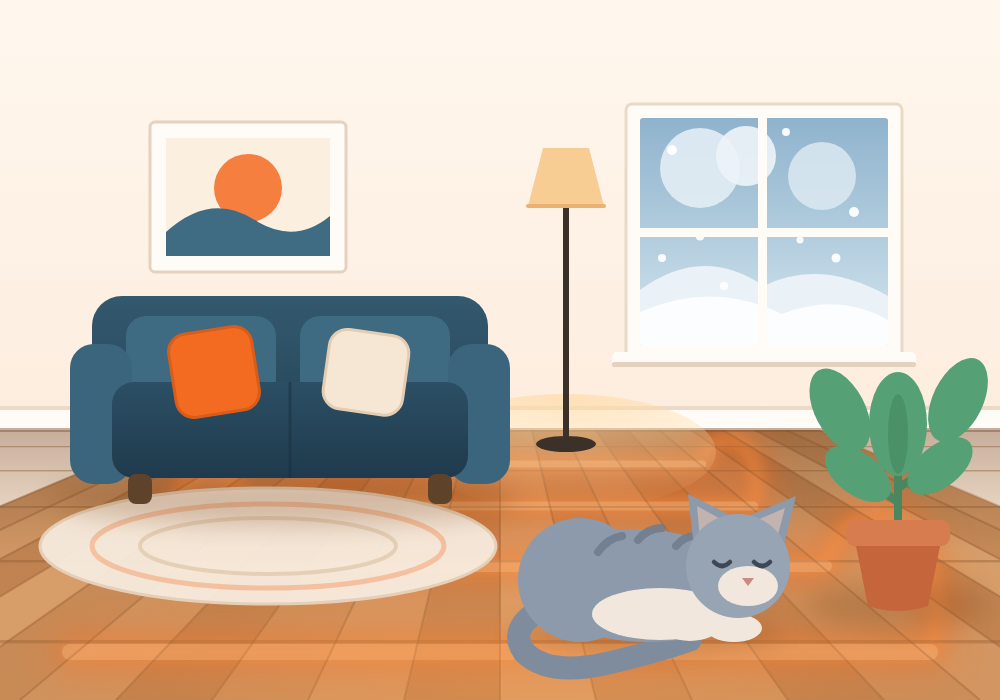
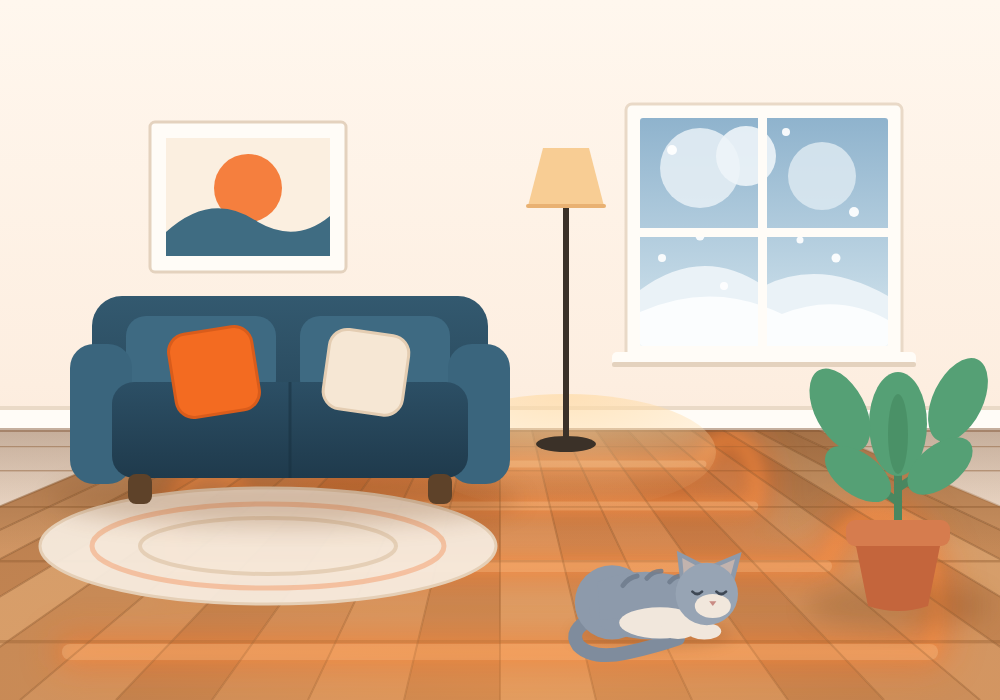
Redraw the controller plain, and size the cat to the room
The controller is now an unbranded white enclosure with a code on the lid
and nothing else - no logo, no actuator. Its four cable entries are drawn on
the front wall's own plane, so they lie along the wall instead of sitting
square against a slanted face, and the view is steeper so more of the lid
shows and less of the wall.

The cat was drawn to a size that would have made it the largest animal in
the room; it is now scaled to the furniture around it.

Claude-Session: https://claude.ai/code/session_016iqpeTW8PoqLBoyWR8PW5p

Changed region(s): [[0.496, 0.69, 0.806, 0.99]]

diff --git a/art/driver_images.py b/art/driver_images.py
@@ -154,16 +154,25 @@ ROOM = f'''<svg xmlns="http://www.w3.org/2000/svg" viewBox="0 0 1000 1000" width
 
 # -- controller unit -----------------------------------------------------------
 
-# A light axonometric: `U` runs along the width of the box, `V` into the depth.
-AX, AY = 140.0, 476.0          # front-left corner of the lid
-UX, UY = 430.0, 48.0
-VX, VY = 152.0, -136.0
-BOX_H = 124.0
+# A light axonometric seen from fairly high up: `U` runs along the width of the
+# box, `V` into its depth. The steep V and the shallow wall height are what put
+# the viewer above the box rather than level with it.
+AX, AY = 168.0, 560.0          # front-left corner of the lid
+UX, UY = 562.0, 45.0
+VX, VY = 125.0, -266.0
+BOX_H = 94.0
+
+FRONT_W, FRONT_H = 1000.0, 300.0   # local drawing space for the front wall
 
 
 def lid(s, t):
     """A point on the lid, in fractions of its width and depth."""
     return AX + s * UX + t * VX, AY + s * UY + t * VY
+
+
+def front(s, y):
+    """A point on the front wall: `s` across its width, `y` down its height."""
+    return AX + s * UX, AY + s * UY + y * BOX_H
 
 
 def quad(pts, fill, stroke=None, sw=3):
@@ -178,116 +187,90 @@ def plane(o, u, v, w, h):
             f'{o[0]:.2f},{o[1]:.2f})')
 
 
-def qr(x, y, size, modules=21):
+def qr(x, y, size, modules=25):
     """A stand-in QR block - finder squares and a stable scatter of modules."""
     import random
-    rnd = random.Random(7)
+    rnd = random.Random(11)
     m = size / modules
-    cells = []
+    cells = [f'<rect x="{x - m * 2:.1f}" y="{y - m * 2:.1f}" width="{size + m * 4:.1f}" '
+             f'height="{size + m * 4:.1f}" fill="#FFFFFF"/>']
+
     def finder(cx, cy):
-        cells.append(f'<rect x="{x + cx * m:.1f}" y="{y + cy * m:.1f}" width="{7 * m:.1f}" height="{7 * m:.1f}" fill="{NAVY}"/>')
+        cells.append(f'<rect x="{x + cx * m:.1f}" y="{y + cy * m:.1f}" width="{7 * m:.1f}" height="{7 * m:.1f}" fill="#2B3138"/>')
         cells.append(f'<rect x="{x + (cx + 1) * m:.1f}" y="{y + (cy + 1) * m:.1f}" width="{5 * m:.1f}" height="{5 * m:.1f}" fill="#FFFFFF"/>')
-        cells.append(f'<rect x="{x + (cx + 2) * m:.1f}" y="{y + (cy + 2) * m:.1f}" width="{3 * m:.1f}" height="{3 * m:.1f}" fill="{NAVY}"/>')
+        cells.append(f'<rect x="{x + (cx + 2) * m:.1f}" y="{y + (cy + 2) * m:.1f}" width="{3 * m:.1f}" height="{3 * m:.1f}" fill="#2B3138"/>')
+
     def in_finder(r, c):
-        return ((r < 8 and c < 8) or (r < 8 and c >= modules - 8) or (r >= modules - 8 and c < 8))
+        return (r < 8 and c < 8) or (r < 8 and c >= modules - 8) or (r >= modules - 8 and c < 8)
+
     for r in range(modules):
         for c in range(modules):
             if in_finder(r, c) or not rnd.getrandbits(1):
                 continue
-            cells.append(f'<rect x="{x + c * m:.1f}" y="{y + r * m:.1f}" width="{m:.1f}" height="{m:.1f}" fill="{NAVY}"/>')
+            cells.append(f'<rect x="{x + c * m:.1f}" y="{y + r * m:.1f}" width="{m:.1f}" height="{m:.1f}" fill="#2B3138"/>')
     finder(0, 0); finder(modules - 7, 0); finder(0, modules - 7)
     return "".join(cells)
 
 
-LOGO = f'''<g transform="translate(52 228) scale(1.52)">
-    <path d="M100 14 L184 92 L184 184 L16 184 L16 92 Z" fill="{ORANGE}" stroke="{ORANGE}"
-          stroke-width="16" stroke-linejoin="round"/>
-    <path d="M46 108 H124 a15 15 0 0 1 0 30 H64 a15 15 0 0 0 0 30 H150" fill="none"
-          stroke="#FFFFFF" stroke-width="15" stroke-linecap="round"/>
-  </g>
-  <text x="392" y="410" font-family="Liberation Serif, Georgia, serif" font-size="186"
-        font-weight="700" fill="{ORANGE}" letter-spacing="4">SMART</text>
-  <text x="404" y="588" font-family="Liberation Serif, Georgia, serif" font-size="92"
-        font-weight="700" fill="{NAVY}" letter-spacing="2">GULVVARME</text>'''
-
-
-def panel():
-    o = lid(0.07, 0.88)
-    u = (0.86 * UX, 0.86 * UY)
-    v = (-0.76 * VX, -0.76 * VY)
-    return f'''<g transform="{plane(o, u, v, 1400, 800)}">
-    <rect x="0" y="0" width="1400" height="800" fill="#F5F7F8"/>
-    <rect x="26" y="26" width="1348" height="748" fill="none" stroke="#CDD4DB" stroke-width="9"/>
-    {LOGO}
-    {qr(1146, 372, 202)}
-    <text x="1146" y="636" font-family="{FONT}" font-size="36" fill="#7C858F">Scan for Info</text>
+def label():
+    """The recessed plate on the lid, carrying nothing but the code."""
+    o = lid(0.08, 0.87)
+    u = (0.84 * UX, 0.84 * UY)
+    v = (-0.74 * VX, -0.74 * VY)
+    return f'''<g transform="{plane(o, u, v, 1200, 800)}">
+    <rect x="0" y="0" width="1200" height="800" fill="#F7F8F9"/>
+    <rect x="24" y="24" width="1152" height="752" fill="none" stroke="#D2D8DE" stroke-width="8"/>
+    {qr(450, 250, 300)}
   </g>'''
 
 
 def screws():
     out = []
-    for s_, t_ in ((0.045, 0.085), (0.955, 0.085), (0.045, 0.915), (0.955, 0.915), (0.5, 0.085), (0.5, 0.915)):
+    for s_, t_ in ((0.04, 0.075), (0.96, 0.075), (0.04, 0.925), (0.96, 0.925),
+                   (0.5, 0.075), (0.5, 0.925)):
         x, y = lid(s_, t_)
-        out.append(f'<circle cx="{x:.1f}" cy="{y:.1f}" r="8.5" fill="#DDE2E7" stroke="#B6BEC7" stroke-width="2.5"/>')
+        out.append(f'<circle cx="{x:.1f}" cy="{y:.1f}" r="9" fill="#DDE2E7" stroke="#B6BEC7" stroke-width="2.5"/>')
         out.append(f'<circle cx="{x:.1f}" cy="{y:.1f}" r="3.5" fill="#9AA3AD"/>')
     return "".join(out)
 
 
-def cable_slots():
-    """Cable entries along the front face, with leads running out of them."""
-    routes = [(0.20, 118, 128), (0.38, 176, 146), (0.56, 246, 158)]
-    slots, leads = [], []
-    for s_, end_x, drop in routes:
-        x = AX + s_ * UX
-        y = AY + s_ * UY + BOX_H * 0.5
-        slots.append(f'<rect x="{x - 27:.1f}" y="{y:.1f}" width="54" height="32" rx="7" fill="#3C444E"/>')
-        slots.append(f'<rect x="{x - 27:.1f}" y="{y:.1f}" width="54" height="9" rx="4" fill="#2B323A"/>')
-        leads.append(f'<path d="M{x:.1f} {y + 28:.1f} C{x:.1f} {y + drop * 0.7:.1f} '
-                     f'{end_x + 40:.1f} {y + drop * 0.5:.1f} {end_x:.1f} {y + drop:.1f}" '
-                     f'fill="none" stroke="#C4C9CF" stroke-width="16" stroke-linecap="round"/>')
-    return "".join(leads) + "".join(slots)
+def openings():
+    """Four cable entries, drawn on the wall's own plane so they lie with it."""
+    o = (AX, AY)
+    glands = f'''<g transform="{plane(o, (UX, UY), (0.0, BOX_H), FRONT_W, FRONT_H)}">
+    {"".join(f"""<rect x="{c - 62}" y="66" width="124" height="182" rx="20" fill="#3C444E"/>
+    <rect x="{c - 62}" y="66" width="124" height="46" rx="20" fill="#2B323A"/>"""
+             for c in (168, 388, 608, 828))}
+  </g>'''
+    leads = []
+    for s_, end_x, drop in ((0.168, 132, 88), (0.388, 258, 100), (0.608, 402, 110), (0.828, 552, 120)):
+        x, y = front(s_, 0.83)
+        leads.append(f'<path d="M{x:.1f} {y:.1f} C{x:.1f} {y + drop * 0.72:.1f} '
+                     f'{end_x + 44:.1f} {y + drop * 0.52:.1f} {end_x:.1f} {y + drop:.1f}" '
+                     f'fill="none" stroke="#C4C9CF" stroke-width="17" stroke-linecap="round"/>')
+    return "".join(leads) + glands
 
 
 BUILDING = f'''<svg xmlns="http://www.w3.org/2000/svg" viewBox="0 0 1000 1000" width="1000" height="1000">
   <defs>
-    <linearGradient id="valve" x1="0" y1="0" x2="1" y2="0">
-      <stop offset="0" stop-color="#2E5FA8"/>
-      <stop offset="0.42" stop-color="#3E7ACB"/>
-      <stop offset="1" stop-color="#26518F"/>
-    </linearGradient>
     <filter id="drop" x="-40%" y="-40%" width="180%" height="180%">
-      <feGaussianBlur stdDeviation="15"/>
+      <feGaussianBlur stdDeviation="16"/>
     </filter>
   </defs>
   <rect width="1000" height="1000" fill="#FFFFFF"/>
 
-  <g transform="translate(480 520) scale(1.09) translate(-480 -520)">
-  <ellipse cx="470" cy="712" rx="330" ry="42" fill="#9AA9BC" opacity="0.3" filter="url(#drop)"/>
-  <ellipse cx="812" cy="716" rx="96" ry="22" fill="#9AA9BC" opacity="0.3" filter="url(#drop)"/>
-
-  <!-- lead running out to the actuator -->
-  <path d="M556 606 C640 690 700 706 762 692" fill="none" stroke="#C4C9CF" stroke-width="16" stroke-linecap="round"/>
+  <ellipse cx="512" cy="716" rx="358" ry="42" fill="#9AA9BC" opacity="0.3" filter="url(#drop)"/>
 
   <!-- enclosure -->
-  {quad([lid(0, 1), lid(1, 1), (AX + UX + VX, AY + UY + VY + BOX_H), (AX + VX, AY + VY + BOX_H)], "#CFD5DC")}
-  {quad([lid(0, 0), lid(1, 0), (AX + UX, AY + UY + BOX_H), (AX, AY + BOX_H)], "#E1E5EA", "#C3CAD2")}
-  {quad([lid(1, 0), lid(1, 1), (AX + UX + VX, AY + UY + VY + BOX_H), (AX + UX, AY + UY + BOX_H)], "#D2D8DF", "#C3CAD2")}
-  {quad([lid(0, 0), lid(1, 0), lid(1, 1), lid(0, 1)], "#EEF1F3", "#C3CAD2")}
-  {quad([lid(0.03, 0.06), lid(0.97, 0.06), lid(0.97, 0.94), lid(0.03, 0.94)], "#F2F4F6", "#D7DCE2", 2)}
+  {quad([lid(0, 1), lid(1, 1), (AX + UX + VX, AY + UY + VY + BOX_H), (AX + VX, AY + VY + BOX_H)], "#C7CED6")}
+  {quad([lid(0, 0), lid(1, 0), (AX + UX, AY + UY + BOX_H), (AX, AY + BOX_H)], "#E3E7EB", "#B4BDC7")}
+  {quad([lid(1, 0), lid(1, 1), (AX + UX + VX, AY + UY + VY + BOX_H), (AX + UX, AY + UY + BOX_H)], "#D0D6DD", "#B4BDC7")}
+  {quad([lid(0, 0), lid(1, 0), lid(1, 1), lid(0, 1)], "#F0F2F4", "#B4BDC7")}
+  {quad([lid(0.025, 0.05), lid(0.975, 0.05), lid(0.975, 0.95), lid(0.025, 0.95)], "#F5F7F8", "#DAE0E5", 2)}
 
-  {panel()}
+  {label()}
   {screws()}
-  {cable_slots()}
-
-  <!-- thermal actuator -->
-  <g>
-    <path d="M754 706 L754 596 a58 26 0 0 1 116 0 L870 706 a58 26 0 0 1 -116 0 Z" fill="url(#valve)"/>
-    <ellipse cx="812" cy="596" rx="58" ry="26" fill="#5C93DC"/>
-    <ellipse cx="812" cy="596" rx="40" ry="17" fill="#4A7FC6"/>
-    <rect x="758" y="648" width="108" height="26" rx="6" fill="#1F4478" opacity="0.55"/>
-    <path d="M754 700 a58 26 0 0 0 116 0" fill="none" stroke="#1B3C6B" stroke-width="6"/>
-  </g>
-  </g>
+  {openings()}
 </svg>
 '''
 

diff --git a/art/app_image.py b/art/app_image.py
@@ -217,7 +217,7 @@ SVG = f'''<svg xmlns="http://www.w3.org/2000/svg" viewBox="0 0 {W} {H}" width="{
   </g>
 
   <!-- the real test of a warm floor -->
-  <g>
+  <g transform="translate(660 636) scale(0.6) translate(-660 -636)">
     <ellipse cx="646" cy="634" rx="134" ry="22" fill="#7A4A24" opacity="0.24" filter="url(#shadow)"/>
 
     <!-- tail, curling round the front -->
